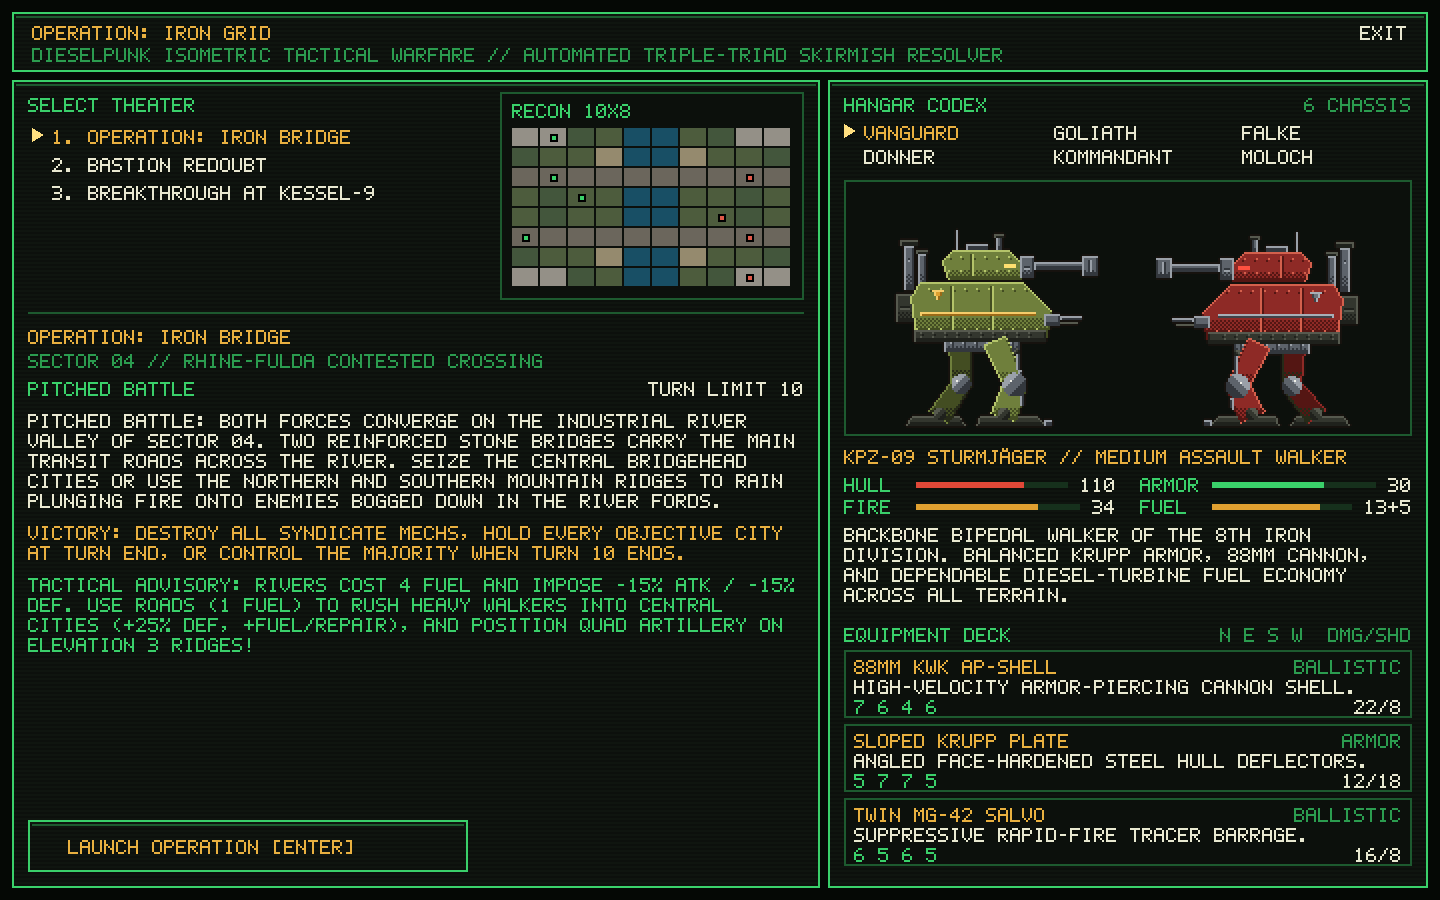
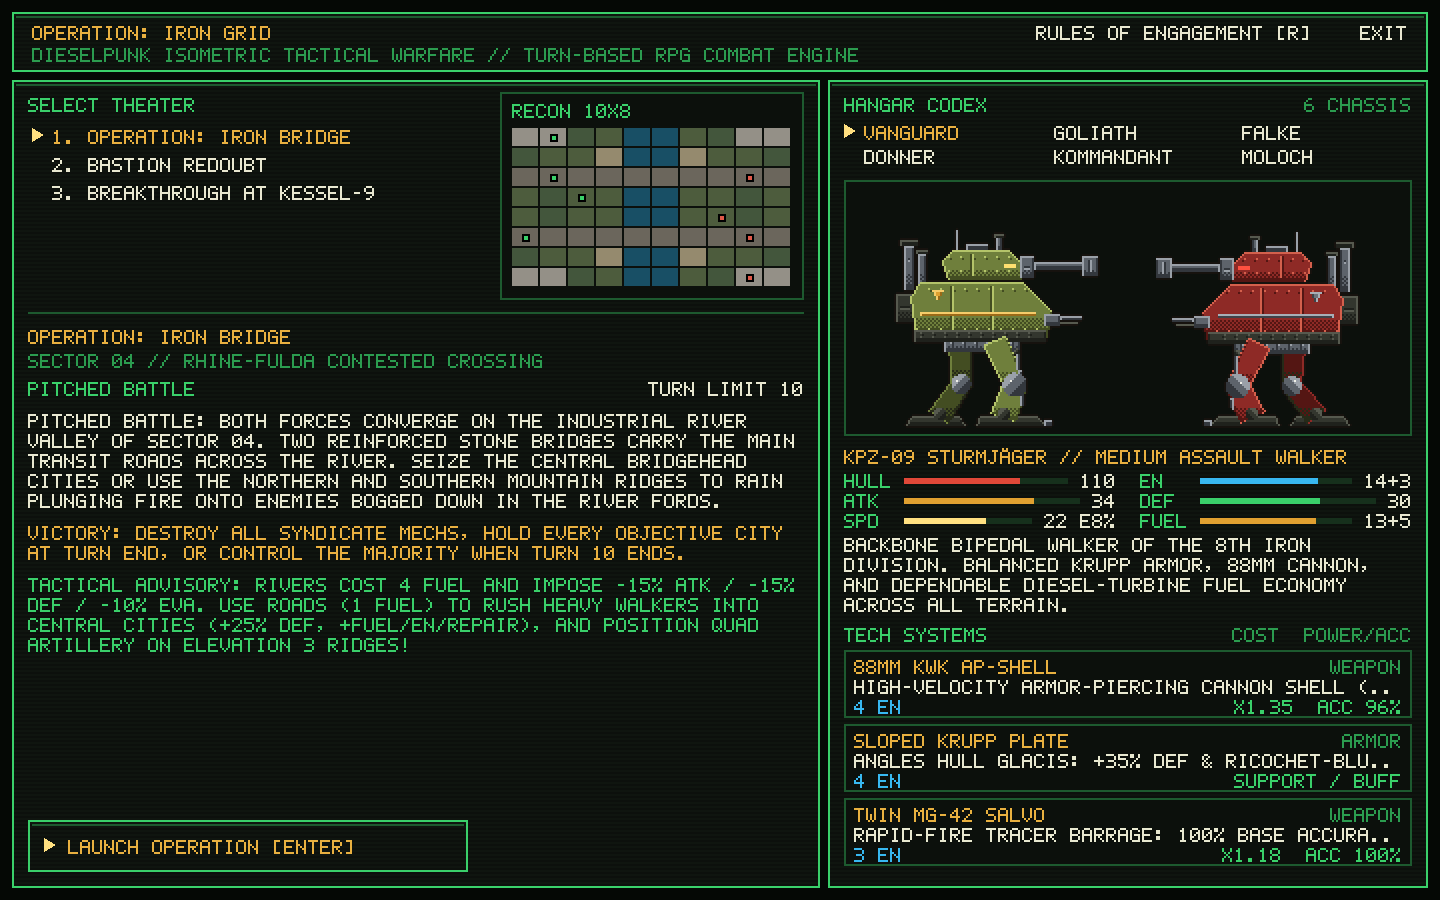
docs: rules page, out-of-reach readout and attack fuel rule
README covers the attack-fuel rule, the OUT OF REACH readout, the Rules of Engagement page
(controls, screenshot, project structure) and the stricter test runner. The Command HQ
screenshot is refreshed (it still showed the retired card-battle deck). The design doc is
marked implemented.

diff --git a/README.md b/README.md
@@ -14,6 +14,10 @@
 
 *Command HQ briefing console: 3 selectable battle theaters, satellite reconnaissance preview, and interactive Armored Walker Hangar Codex.*
 
+![Rules of Engagement](screenshot_rules.png)
+
+*Rules of Engagement (press `R` in Command HQ): seven chapters on how the battle works, with every number read from the game's data.*
+
 ---
 
 ## Core Gameplay & Turn Loop
@@ -25,6 +29,7 @@ Each turn cycles through three phases:
 1. **Player Command Phase**:
    - Select any friendly Armored Fighting Walker (AFW) to compute reachable movement nodes within its current **Diesel Fuel** budget (using Dijkstra pathfinding across terrain and elevation climbs).
    - Hover over reachable enemy nodes to inspect a real-time **Skirmish Engagement Forecast** detailing approach vectors, terrain/elevation modifiers, initiative order, and estimated hull damage.
+   - **Attacking is a move onto the enemy's node, so a strike pays that node's fuel**: its terrain cost, the chassis surcharge or gear discount, and the climb. A Goliath striking a mountain one level up pays `5 + 1 + 1 = 7` of its `10` fuel. When the selected walker could reach a tile next to an enemy this turn but can't afford the final step, hovering that enemy shows an **OUT OF REACH** box with the fuel it needs, the breakdown, and advice that has been checked against next turn's refuel (wait here, move to a named tile, or refuel over several turns). Clicking it writes the same reason to the Comms Log. Enemies simply too far away show a quiet `BEYOND MOVE RANGE` line. While a walker is selected, the sector panel shows **its own** step cost for the hovered terrain.
    - Move to secure strategic **Objective Cities**, press **`R`** (`WAIT / REFUEL`) to entrench (`+15% DEF`, `+5 Fuel`, `+4 EN`, and `+8 Hull` when holding a City), or move directly onto an enemy-occupied node to trigger a combat encounter.
 2. **Combat Encounter Phase (Final Fantasy Turn-Based Battle)**:
    - When two opposing walkers occupy the same node, the game cuts from the isometric grid to a side-view **Final Fantasy-style Turn-Based Battle** against a terrain backdrop matching the contested sector.
@@ -59,7 +64,7 @@ Each turn cycles through three phases:
 | **Mountain Crag** | `MTN` | `5` | `+15%` | `+30%` | `+10%` | Commanding rock bastion (`Donner` quad legs reduce climb cost) |
 
 ### Elevation (`0m` – `400m`)
-- **Climbing Fuel Surcharge**: Moving uphill costs `+1 Fuel` per `100m` elevation level gained.
+- **Climbing Fuel Surcharge**: Moving uphill costs `+1 Fuel` per `100m` elevation level gained, and that includes the final step of an attack onto a higher enemy.
 - **High Ground Plunging Fire**: Whichever walker holds the higher tile gains **+4% Hit Accuracy**, **+4% Evasion** and **+5% Crit** per elevation level. Attacking downhill also grants **+12% Firepower** and **+10% Armor deflection** per level, while the defender below loses **8% Firepower and Armor** per level.
 - **Uphill Assault Penalty**: Attacking uphill suffers **-10% Firepower** and **-4% Hit Accuracy** per level, and the defender above gains **+12% Firepower and Armor** per level.
 
@@ -109,10 +114,11 @@ Stats are read from `autoload/GlobalState.gd`; `EN (+n)` is the reactor pool and
 | **Right / Middle Mouse Drag** | Pan tactical camera |
 | **WASD / Arrow Keys** | Pan tactical camera (or navigate battle command menu) |
 | **Mouse Wheel Up / Down** | Zoom camera in / out |
-| **`R`** | Wait, Entrench (`+15% DEF`), & Refuel (`+5 Fuel`, `+4 EN`) selected walker |
+| **`R`** (battlefield) | Wait, Entrench (`+15% DEF`), & Refuel (`+5 Fuel`, `+4 EN`) selected walker |
 | **`E`** | End Player Command Phase |
 | **`C`** | Reset & center camera on battlefield |
 | **`H`** | Toggle Tactical Field Manual & Terrain Chart |
+| **`R`** (Command HQ) | Open the **Rules of Engagement** page: 7 chapters on winning, fuel, terrain & high ground, the clash, its aftermath, chassis roles and field tips. `Up` / `Down` / `1`–`7` pick a chapter, `Esc` returns |
 | **`Up` / `Down` / Mouse Hover** | Battle screen: highlight `ATTACK` / `TECH` / `DEFEND` / `RETREAT` |
 | **`Space` / `Enter` / Left Click** | Battle screen: confirm command or confirm battle result |
 | **`Esc` / `Backspace` / Right Click** | Battle screen: exit `TECH` sub-menu (or deselect unit on map) |
@@ -128,6 +134,7 @@ iron-grid/
 ├── project.godot                   # Godot 4.7 project configuration & autoloads
 ├── icon.svg                        # Custom vector project icon
 ├── screenshot_main_menu.png        # Command HQ briefing & codex screenshot
+├── screenshot_rules.png            # Rules of Engagement page screenshot
 ├── screenshot_gameplay.png         # Tactical isometric battlefield screenshot
 ├── autoload/
 │   ├── GlobalState.gd              # Global turn/phase state, ability/mech/map catalogs, combat log
@@ -139,7 +146,7 @@ iron-grid/
 │   └── font/                       # 5x7 bitmap font
 ├── tools/battle_sprites/           # Stdlib-only Python generator for everything in assets/battle
 ├── scenes/
-│   ├── MainMenu.tscn               # Command HQ briefing console, 3-map selector & Mech Hangar Codex
+│   ├── MainMenu.tscn               # Command HQ briefing console, 3-map selector, Mech Hangar Codex & Rules of Engagement
 │   ├── Battlefield.tscn            # Root battle scene (GridMap, UnitContainer, Camera2D, UIOverlay)
 │   └── dev/BattlePreview.tscn      # Dev-only battle screen preview (every chassis, ability, terrain)
 └── scripts/
@@ -150,7 +157,8 @@ iron-grid/
     │   └── MechData.gd             # Core walker struct (hull, energy, firepower, armor, speed, abilities)
     ├── battle/
     │   ├── Battlefield.gd          # Turn flow controller (Player -> Combat Encounter -> AI)
-    │   ├── IsoGridMap.gd           # 2.5D isometric terrain renderer & Dijkstra fuel pathfinder
+    │   ├── IsoGridMap.gd           # 2.5D isometric terrain renderer, Dijkstra fuel pathfinder & strike plans
+    │   ├── StrikePlan.gd           # Why an enemy can't be struck: fuel needed, breakdown & checked advice
     │   ├── UnitContainer.gd        # Y-sorted mech manager, collision checks & knockback logic
     │   ├── MechUnit.gd             # Procedural multi-part isometric mech renderer & animator
     │   ├── SkirmishEngine.gd       # Final Fantasy turn-based battle session & tactical AI resolver
@@ -167,13 +175,14 @@ iron-grid/
     │   ├── PixelFont.gd            # 5x7 bitmap text & wrapping
     │   └── BattlePreview.gd        # Dev preview controller
     └── ui/
-        ├── MainMenu.gd             # War-room menu & interactive Mech Hangar Codex
-        └── UIOverlay.gd            # In-game CRT telemetry HUD, terrain inspector & forecast
+        ├── MainMenu.gd             # War-room menu, interactive Mech Hangar Codex & Rules of Engagement page
+        ├── RulesContent.gd         # Rules of Engagement chapter text, built from live game data
+        └── UIOverlay.gd            # In-game CRT telemetry HUD, terrain inspector, forecast & OUT OF REACH box
 └── tests/
     ├── Playtest.tscn               # Headless automated playtest entry scene
     ├── playtest.gd                 # Rule checks + full-mission playthroughs with per-frame invariants
-    ├── BattleScreenTests.tscn      # Battle screen unit tests (timeline, layout, anims, screen contract)
-    └── run_battle_tests.sh         # Headless runner for the battle screen tests
+    ├── BattleScreenTests.tscn      # Battle screen, strike plan & rules page unit tests
+    └── run_battle_tests.sh         # Headless runner for those tests (fails on any SCRIPT ERROR too)
 ```
 
 ---

diff --git a/docs/superpowers/specs/2026-11-01-reach-feedback-and-rules-page-design.md b/docs/superpowers/specs/2026-11-01-reach-feedback-and-rules-page-design.md
@@ -1,7 +1,9 @@
 # Out-of-Reach Feedback & Rules of Engagement Page: Design
 
-Date: 2026-11-01. Status: approved for implementation (the user set the goal to proceed); the review
-questions were settled as marked "my call".
+Date: 2026-11-01. Status: implemented on `feat/reach-feedback-rules-page` (see the plan in
+`docs/superpowers/plans/2026-11-01-reach-feedback-and-rules-page.md`). The design-review questions
+were settled as marked "my call". The HUD box shortened its first line to `NEEDS 7F, HAVE 4F` and
+wraps the breakdown between terms so it fits the 140px panel.
 
 ## Why
 
